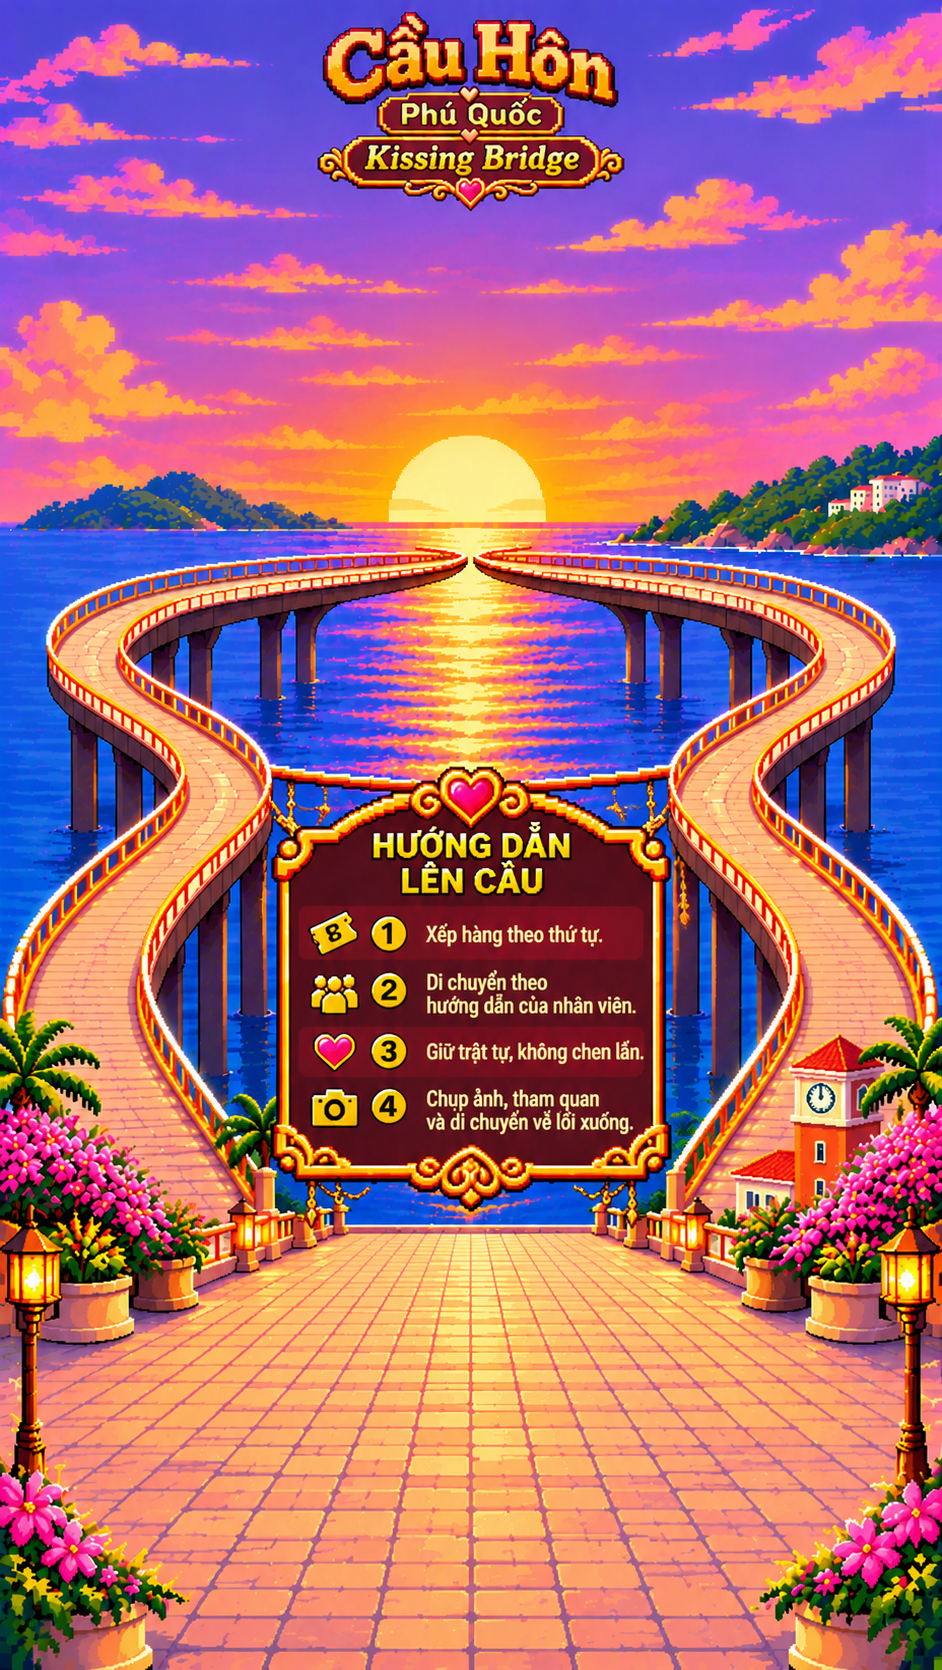
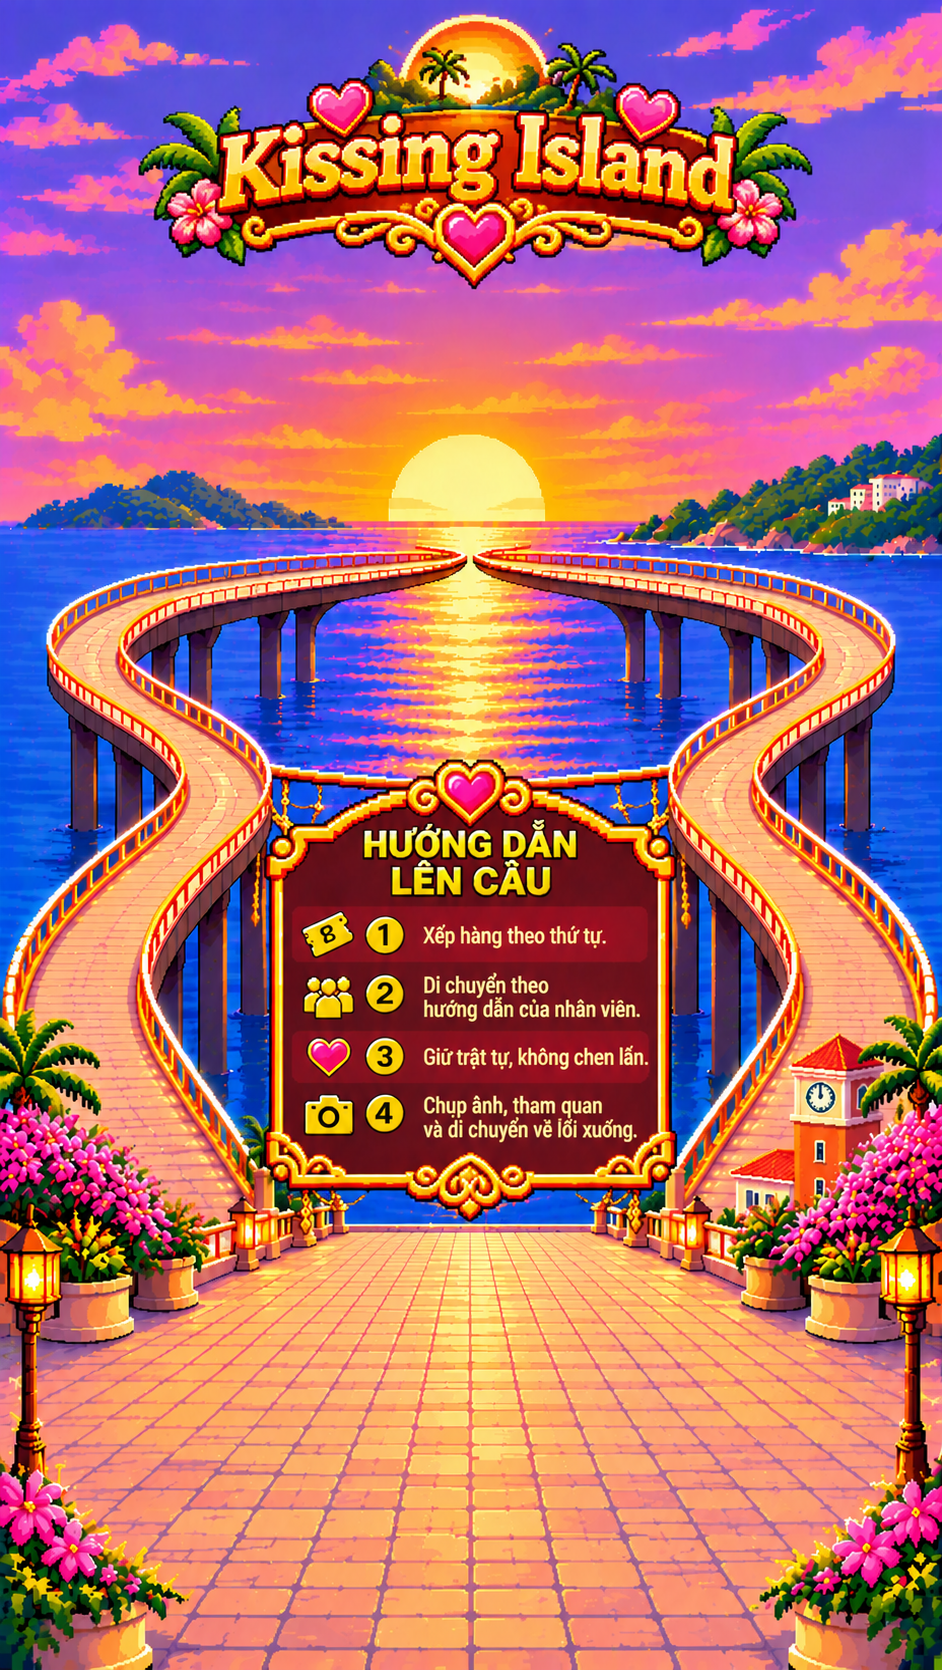
v1.3.1: ảnh nền Kissing Island
Claude-Session: https://claude.ai/code/session_018LSVv2ZhULiJxPmnJ2fYQd

diff --git a/app/stage.js b/app/stage.js
@@ -1068,6 +1068,7 @@ const RULES_V4 = {
   boards: { guide: { x: 298, y: 902, w: 348, h: 234 }, guideBg: '#6c0f1e' },
   sfx: { files: { join: '', fly: '', kiss: '', gift: '', fanfare: '', poof: '' }, vols: { join: 1, fly: 1, kiss: 1, gift: 1, fanfare: 1, poof: 1 } }
 };
+const RULES_V5 = { schema: 5, boards: { guide: { x: 286, y: 903, w: 366, h: 242 }, guideBg: '#6e101c' } };
 // one-time settings migration for the new rules (runs inside hot-updated content, no new exe needed)
 const NEW_RULES = {
   schema: 2,
@@ -1106,6 +1107,11 @@ const NEW_RULES = {
     const patch = JSON.parse(JSON.stringify(RULES_V4));
     if (/\{side\}|bên \{side\}/.test(cfg.voice.welcomeTpl || '')) patch.voice = { welcomeTpl: cfg.voice.welcomeTpl.replace(/,?\s*bạn xếp hàng bên \{side\}/, '').replace('{side}', '') };
     cfg = await API.setSettings(patch); log('Đã cập nhật: sân chờ chung, âm thanh tuỳ chỉnh, bảng hướng dẫn lớn');
+  }
+  if ((cfg.schema || 0) < 5) {
+    const patch = JSON.parse(JSON.stringify(RULES_V5));
+    if ((cfg.chat.y || 0) < 300) patch.chat = { y: 305 };            // tiêu đề "Kissing Island" cao hơn
+    cfg = await API.setSettings(patch); log('Đã đổi ảnh nền Kissing Island');
   }
   rebuildPaths();
   await Promise.all(['800 20px B2', '20px PX'].map(f => document.fonts.load(f, 'Aàáạ')));
